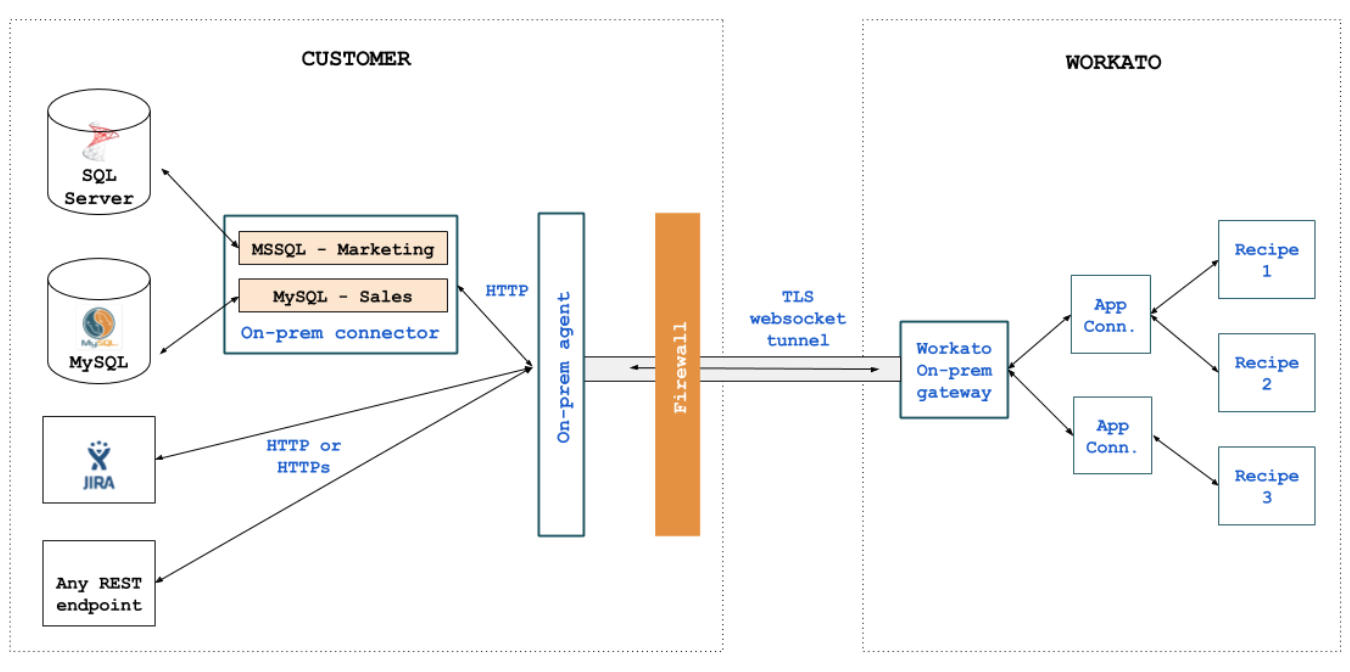
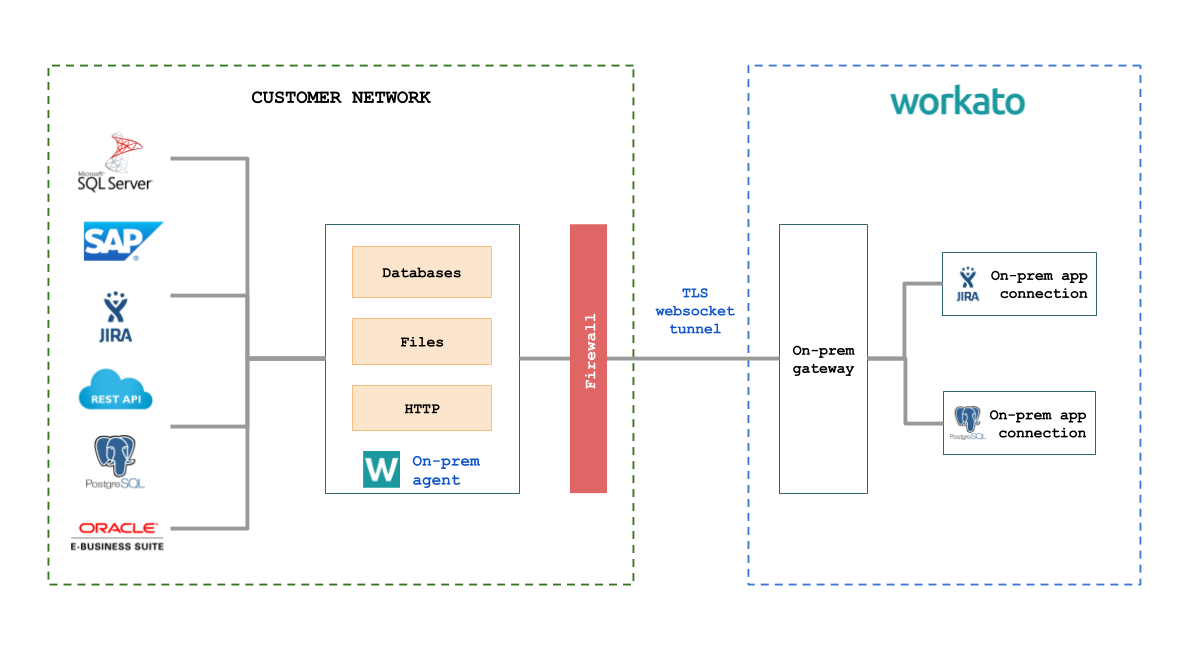
On prem docs v2 update (#126)
* fix servicenow broken link

* fixed servicenow broken image link

* updated on prem docs to v2

* updated onprem docs

* updated on prem option img

diff --git a/on-prem.md b/on-prem.md
@@ -4,7 +4,11 @@ date: 2017-02-22 12:00:00 Z
 ---
 
 # On-premise access
-Workato is a hybrid integration platform that connects to both cloud applications as well on-premises applications behind the firewall. On-premise access is enabled only for certain plans. Check the [Pricing and Plans page](https://www.workato.com/pricing?audience=general) or reach out to Workato sales representatives at +1 (844) 469-6752 to find out more.
+Enterprises have on-premises applications and databases that are deployed within their corporate datacenter. These apps are protected via firewalls, and therefore typically not easily accessible to cloud services like Workato.
+
+The Workato on-premise agent provides a secure way for Workato to selectively access customer-authorized on-prem apps and databases without having to open ‘ports’ in the corporate firewall.
+
+On-premise access is enabled only for certain plans. Check the [Pricing and Plans page](https://www.workato.com/pricing?audience=general) or reach out to Workato sales representatives at +1 (844) 469-6752 to find out more.
 
 For Workato accounts with on-prem access, users are able to view the on-prem option on their account menu.
 
@@ -17,44 +21,147 @@ The following is a conceptual model of Workato's on-premise agent and how it int
 ![On-prem model](/assets/images/on-prem/on_prem_conceptual_model.png)
 *Conceptual model for on-prem agent and connector*
 
-The on-prem agent is a lightweight module to be installed behind the company's firewall. The agent utilizes a secure tunnel over TLS to facilitate interaction between Workato and on-prem applications. These on-prem applications should have REST endpoints to be compatible with the on-prem agent. The on-prem agent also enables interaction with databases behind the firewall.
+Workato on-premise connectivity has 2 core components:
+
+- Tunneling
+
+- Database and filesystem access.
+
+The on-prem agent runs within the customer’s data center, behind the firewall, and establishes a TLS websocket tunnel to connect out to Workato.
+
+The on-prem agent can be configured to access the selected databases and filesystems behind the firewall.
 
 # Supported operating systems
-The on-prem agent works with Windows and Linux.
+The on-prem agent runs on the following systems:
+
+- Linux (64-bit)
+
+- Windows 7, 10 (64-bit)
+
+For Windows, you need Administrator permissions to run the Workato agent as a Windows service.
+Please make sure that TCP port 3000 is available for binding.
 
 # Setting up on-prem access
-On the **On-prem access** page, there is the option to create a new agent. Once created, detailed setup instructions can be found within the **How to use** tab.
 
-![Create new agent](/assets/images/on-prem/create-new-agent.gif)
-*Creating and setting up a new on-prem agent*
+1. [Install agent](/on-prem.md#install-agent)
 
-# Working with the on-prem agent
-To interact with on-premise applications and databases, the on-prem agent has to be started and kept running. Additionally, follow the setup instructions to configure connection profiles for the database you wish to connect to.
+2. [Create connection profiles](/on-prem.md#create-connection-profiles)
 
-**Windows**:
-Start `WorkatoAgent` service, e.g. by running the following command as administrator:
-`net start WorkatoAgent`
-or run in the foreground mode from the `<INSTALL_HOME>` directory:
-`bin\run.cmd`
+3. [Start agent](/on-prem.md#start-agent)
 
-**Linux**: from the `<INSTALL_HOME>` directory, run the following command:
-`bin/run.sh`
+## Install agent
 
-Verify that the agent is active on the **On-prem access* page.
+### Windows
 
-![On-prem status](/assets/images/on-prem/agent_connector_status.png)
-*Active/inactive status for on-prem agent and connector*
+1. Click on `Windows agent` button to download and run the installer. Follow the installation instructions.
+2. By default, the agent is installed into `C:\Program Files\Workato Agent` folder and creates a `Workato` group in the Start Menu.
+3. By default, the agent is installed as a Windows service called `WorkatoAgent`. You can disable this feature by unchecking the corresponding option during install.
+4. Click on `Download key` button. Unzip the `cert.zip` file to `<INSTALL_HOME>\conf` directory (`<INSTALL_HOME>` is a target folder you've selected during install). This should copy `cert.key` and `cert.pem` files to the directory.
 
-With an active agent, connect to on-premise applications by selecting the correct agent and providing the required credentials.
+### Linux
 
-![On-prem agent example](/assets/images/on-prem/agent_example.png)
-*Selecting the Database on-prem agent when connecting to JIRA*
+1. Click on `Linux agent` button. Unpack the agent package file to `<INSTALL_HOME>`.
+2. Click on `Download key` button. Unzip the `cert.zip` file to `<INSTALL_HOME>/conf` directory. This should copy `cert.key` and `cert.pem` files to the directory.
 
-With an active agent, connect to on-premise databases by selecting the correct agent and connection profile. As the credentials should have been provided in the connection profile, it is not required.
+## Create connection profiles
+A single Workato agent can be used to connect with multiple backend apps. A `connection profile` uniquely identifies the back end app and contains the configuration information required to connect to that app.
 
-![On-prem connector example](/assets/images/on-prem/connector_example.png)
-*Selecting the on-prem agent Events Team and providing configured connection profile name sql as input*
+Edit `<INSTALL_HOME>/conf/config.yml` file to configure your database connection profiles and filesystem access.
 
+```YAML
+database:
+  profile1:
+    ...
+  profile2:
+    ...
+
+files:
+  profile1:
+    ...
+  profile2:
+    ...
+```
+
+Database connection profiles are located in the `database` section of `<INSTALL_HOME>/conf/config.yml`.
+The following databases are supported by the on-prem agent:
+* `mysql` for MySQL
+* `sqlserver` for Microsoft SQL Server
+* `oracle` for Oracle Database
+* `postgresql` for PostgreSQL.
+
+A database type is specified either by `adapter` property or a complete JDBC URL provided in the `url` property.
+Port numbers can be omitted when matching defaults for a given database type.
+
+The example below has two `connection profiles`: `marketing` and `sales`. Do not use spaces or special characters in `connection profile` names.
+
+```YAML
+database:
+  marketing:
+    adapter: sqlserver
+    username: sa
+    password: PaSsWoRd
+    host: localhost
+    database: marketing
+    timeout: 30
+```
+PostgreSQL URL-based configuration:
+```YAML
+database:
+  sales:
+    url: jdbc:postgresql://sales.database:5432/sales
+    username: joe
+    password: Secret123
+    ApplicationName: workato
+```
+
+Working with on-prem files requires you to define a filesystem profile in the `files` section.
+You need to specify the base folder for file access; the base folder will be used for resolving relative paths.
+```YAML
+files:
+  hrfiles:
+    base: "C:/Documents/HR"
+```
+
+Note that you need to restart the on-prem agent for any configuration change to become effective.
+
+## Start agent
+
+### Windows 64-bit
+
+The on-prem agent can be run as a Windows console application or as a Windows service.
+> NOTE: Installing and running the on-prem agent as a service require Administrator privileges.
+
+Run the on-prem agent in console mode by launching by `Workato` &rarr; `Run Agent (console)` shortcut in the Start Menu.
+You can use `Run Agent (console)` shortcut to ensure the agent is successfully connecting to Workato using the provided certificate.
+
+#### Using Windows Service
+* You need Administrator privileges to install the agent as a Windows service.
+* Installer automatically registers the agent as a Windows service called `WorkatoAgent`.
+* Note: Workato agent is not auto-started by default. Open **Control Panel &rarr; System and Security &rarr; Administrative Tools &rarr; Services &rarr; WorkatoAgent** service configuration to configure service auto-start.
+
+#### Uninstalling
+* You need Administrator privileges to uninstall the agent.
+* Use `Workato` &rarr; `Uninstall` shortcut to uninstall.
+* The service will shutdown automatically before uninstall.
+* Uninstalling the agent does not remove any configuration files that you've created or modified.
+
+#### Browsing log files
+* When the on-prem agent is running as a Windows service, log files can be found at: `%SYSTEMROOT%\System32\LogFiles\Workato`. There's also a shortcut to Workato log directory in the `Workato` group found in Start Menu for convenience.
+* Service log files are only accessible to Administrators.
+
+### Linux 64-bit
+
+Run the on-prem agent using the following bash script:
+```
+<INSTALL_HOME>/bin/run.sh
+```
+
+## Creating recipes
+There are no differences in how you work with on-prem apps within your recipe, but on-prem app connections do require special configuration. An on-prem app connection needs to point to a on-prem agent and a specific `connection profile`.
+
+![](https://docs.google.com/drawings/d/1ubb-7QbGbGtTxFUmyCoEZsYRVrR9wkgcjsqrz-OgShs/pub?w=962&h=394)
+
+You can select the right on-prem agent from the pick list. Once you select the on-prem agent, enter the `connection profile` name as entered in the `database` section of the `config.yml` configuration file.
 ## Common errors when using the on-prem agent
 If connecting to on-prem applications fail, check that:
 - Selected agent is active

diff --git a/connectors/servicenow.md b/connectors/servicenow.md
@@ -17,7 +17,7 @@ The ServiceNow connector works with ServiceNow and ServiceNow instances.
 
 ### ServiceNow connection
 The ServiceNow connector uses basic authentication to authenticate with ServiceNow.
-![Configured ServiceNow connection](/assets/images/configured_ServiceNow_connection.png)
+![Configured ServiceNow connection](/assets/images/connectors/servicenow/configured_servicenow_connection.png)
 * **Connection name**
 
   Give this ServiceNow connection a unique name that identifies which ServiceNow instance it is connected to.
